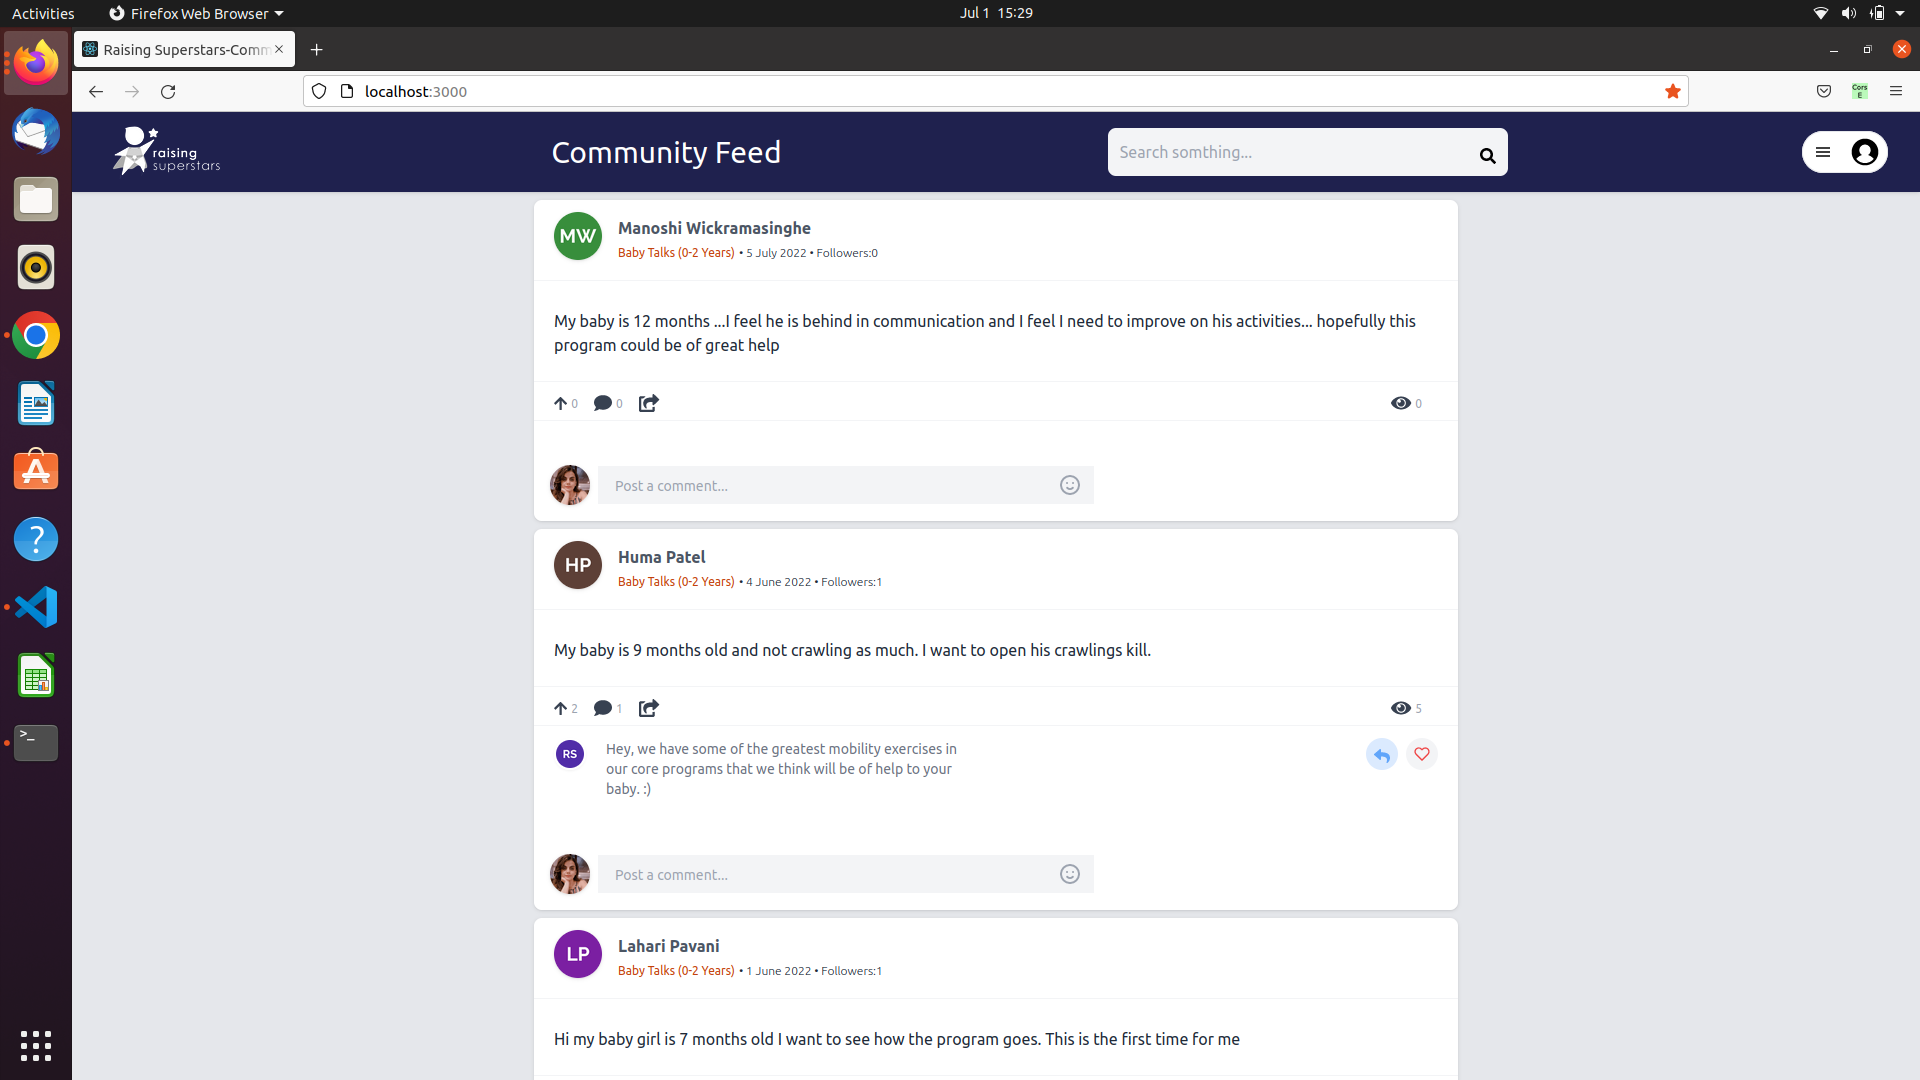
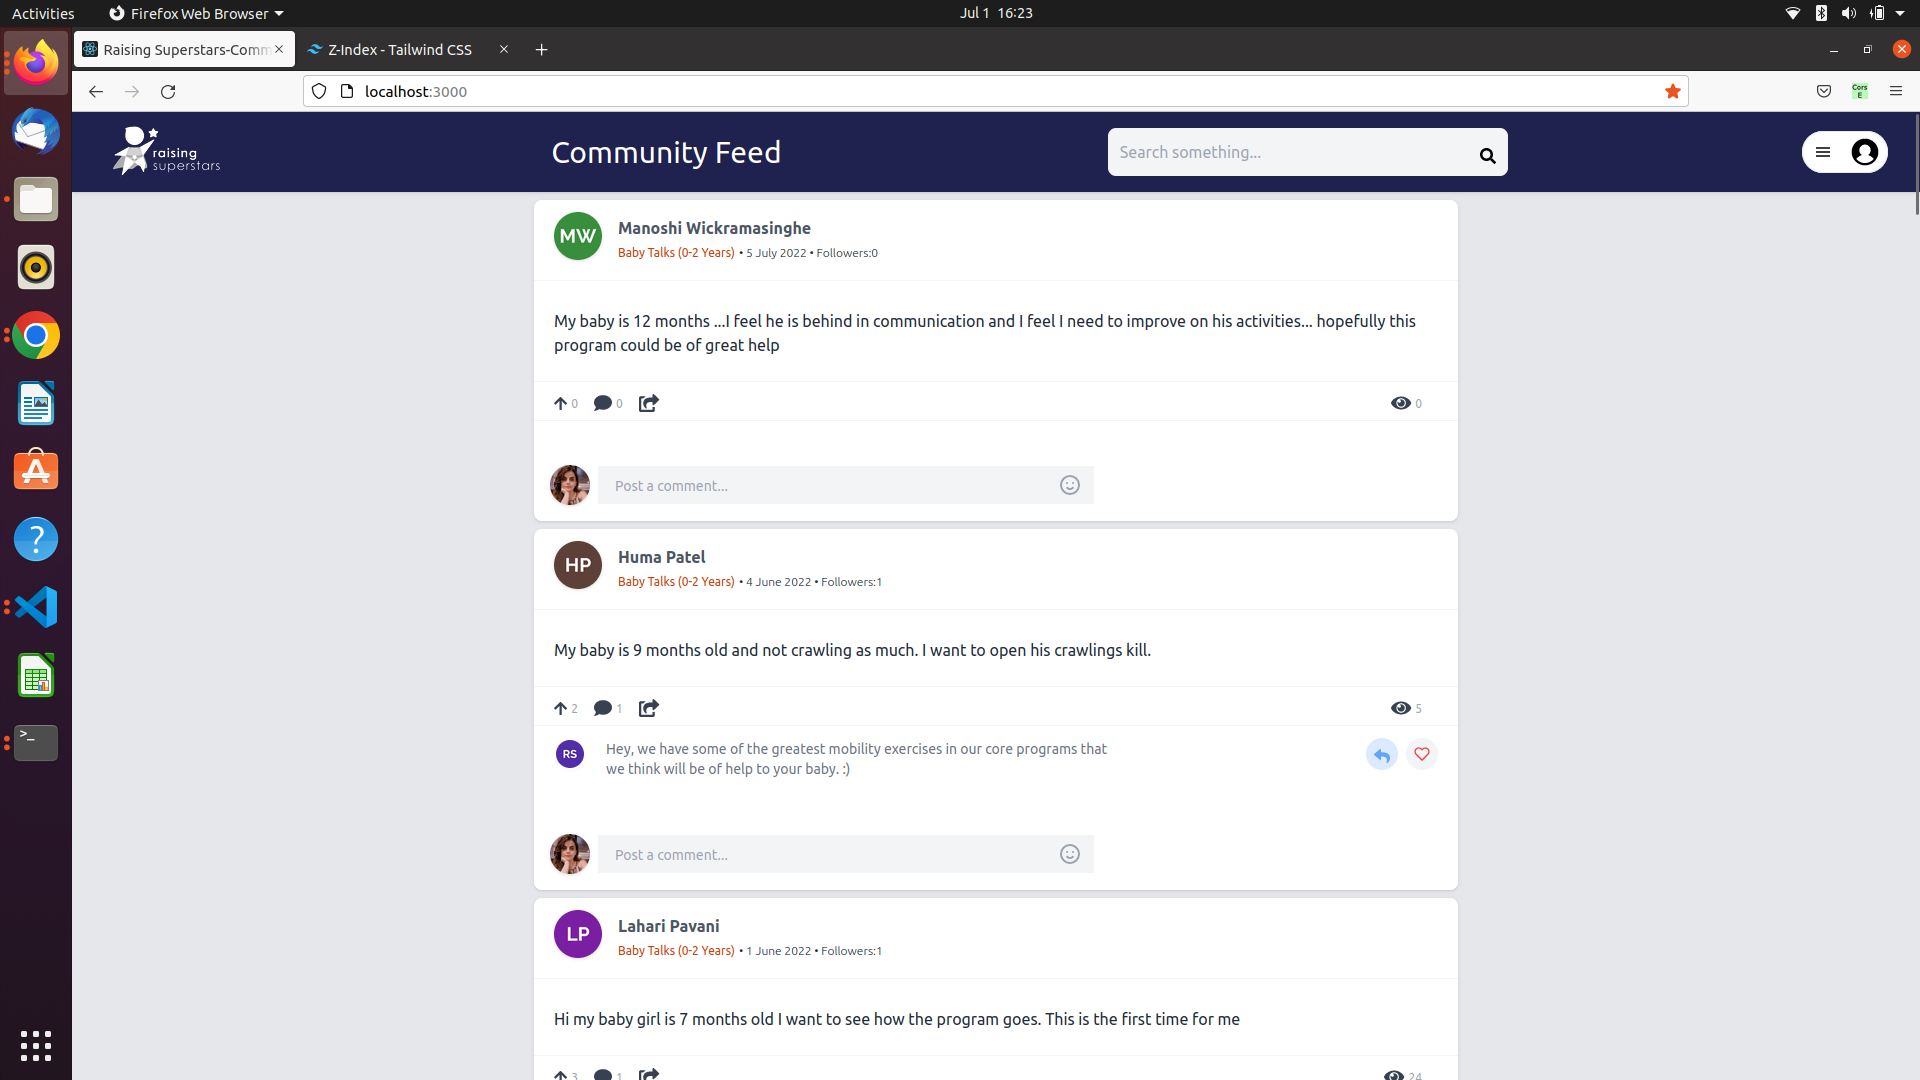
updated images in ReadMe, header sticky

diff --git a/src/components/Header/Header.jsx b/src/components/Header/Header.jsx
@@ -7,7 +7,7 @@ import { faSearch } from '@fortawesome/fontawesome-free-solid'
 import './Header.css';
 export default function Header() {
   return (
-    <div>
+    <div className="sticky top-0 z-50">
       
         <nav className="navbar w-full flex relative shadow justify-between items-center px-8 h-20">
             <div className="inline-flex navbar">
